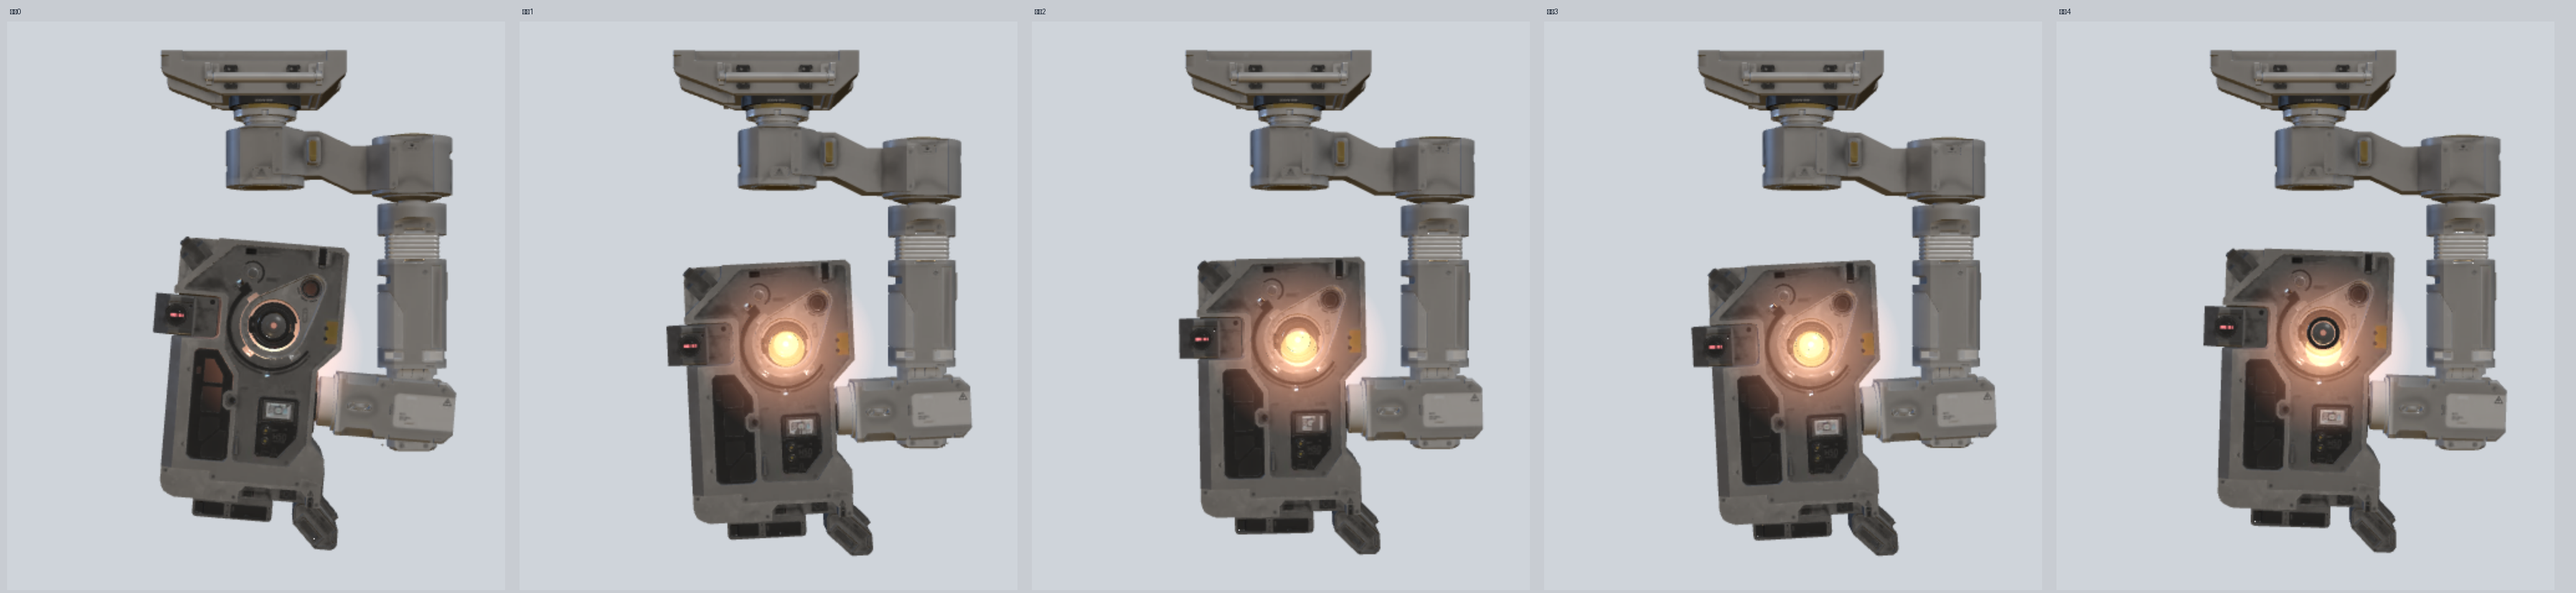
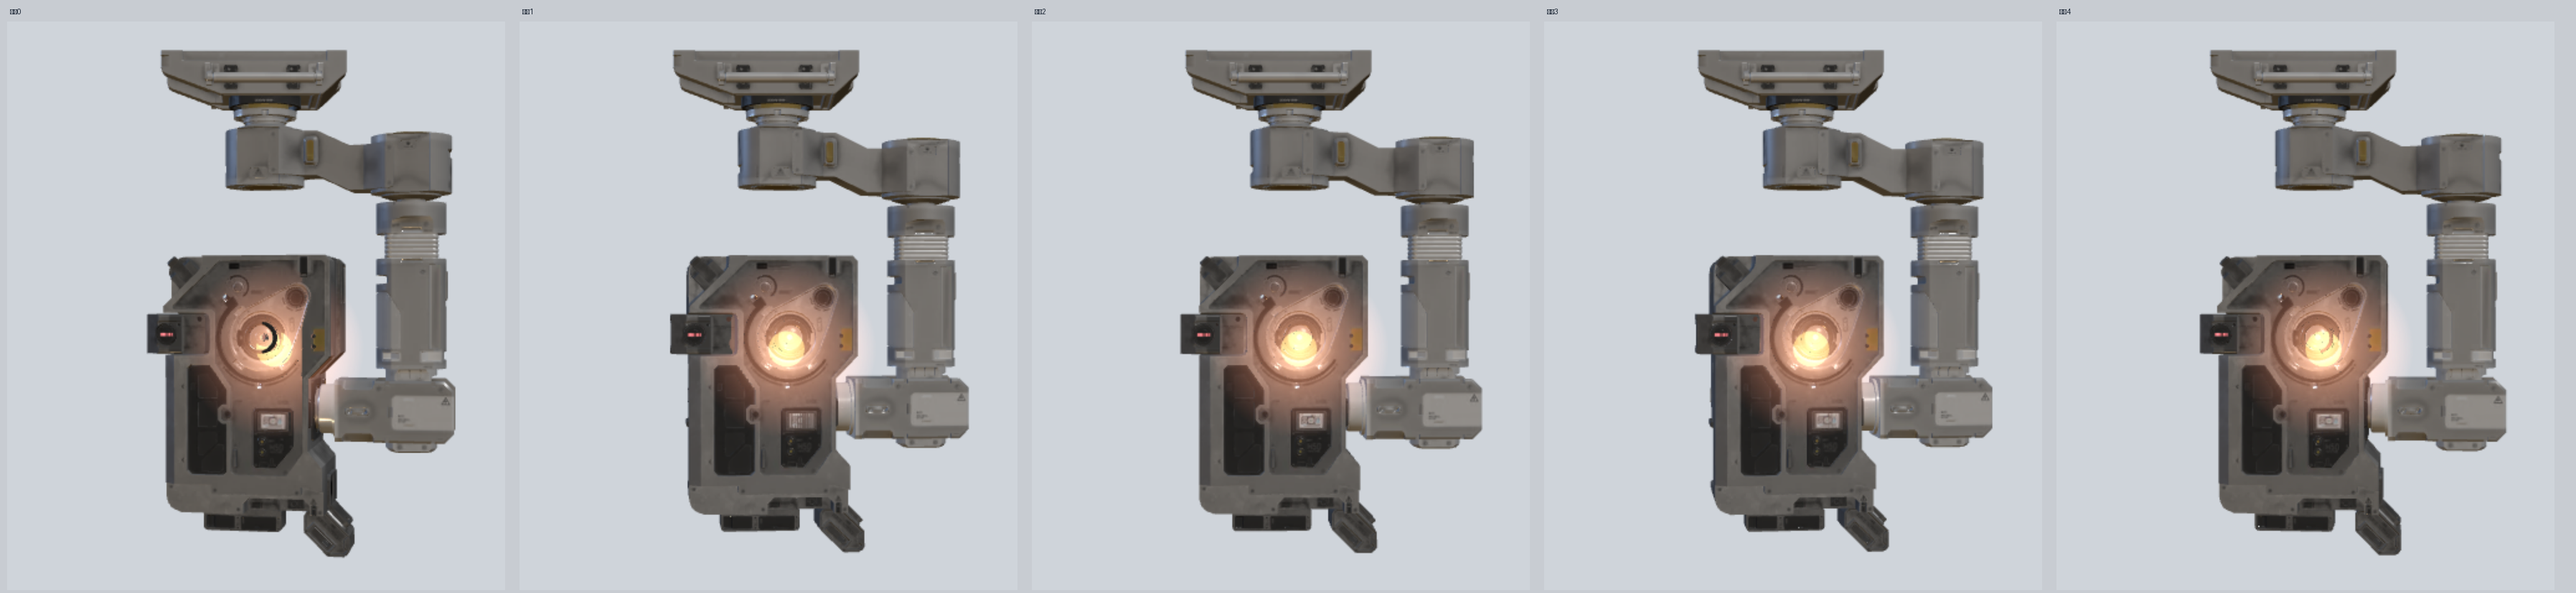
fix(moss): 三关节统一绕垂直轴，消除机身与手臂分离
根因：分段是水平切口，J3 却设成绕 Z 轴旋转 —— 切口与转轴不垂直，转动时两侧必然张开。
- 三个关节统一绕垂直 Y 轴（与水平切口垂直，旋转不变量）
- 关键帧角度：0/0/0 → +15/-8/+6 → -13/+8/-6 → +6/-3/+2.5 → 0
- 放大到最大检查腕部/肘部接缝，确认无张开（screenshots/16-joint-seam.png）
- 素材版本 v55

diff --git a/assets3d/boot.js b/assets3d/boot.js
@@ -284,11 +284,12 @@ export function createMoss3D(canvas, opts) {
     /* 三个关节：按关键帧走具体角度（单位：度）
          J1/J2 绕垂直 Y 轴偏航，J3 绕朝向镜头的 Z 轴摆。
          序列：静止 → 右偏 → 左偏 → 回中 → 静止，每段 1.6s，平滑缓动。 */
+      /* 三个关节都绕垂直 Y 轴（与分段处的水平切口垂直，转动不撕开） */
       const POSES = [
         { a1: 0, a2: 0, a3: 0 },
-        { a1: 9, a2: -5, a3: 6 },
-        { a1: -7, a2: 6, a3: -5 },
-        { a1: 4, a2: -2, a3: 3 },
+        { a1: 15, a2: -8, a3: 6 },
+        { a1: -13, a2: 8, a3: -6 },
+        { a1: 6, a2: -3, a3: 2.5 },
         { a1: 0, a2: 0, a3: 0 },
       ]
       const SEG = working ? 1.0 : 1.6
@@ -303,7 +304,7 @@ export function createMoss3D(canvas, opts) {
       const ang = (k) => ((from[k] + (to[k] - from[k]) * e) * amp) * Math.PI / 180
       if (armTop) armTop.rotation.y = ang('a1')
       if (armMid) armMid.rotation.y = ang('a2')
-      if (armWrist) armWrist.rotation.z = ang('a3')
+      if (armWrist) armWrist.rotation.y = ang('a3')
     renderer.render(scene, camera)
   }
 

diff --git a/client/client.js b/client/client.js
@@ -37,7 +37,7 @@ window.__ModuleLoader__.load({
     var ROOT_ID = 'dsh-pet-liang-root'
     var POS_KEY = 'dsh-pet-liang:pos'
     /* 素材改了名字没变，加一个版本号强制浏览器重新取（宿主给的是 immutable 缓存） */
-    var ASSET_V = '54'
+    var ASSET_V = '55'
     var STYLE_ID = 'dsh-pet-liang-style'
 
     /** 四档推理等级对应的称呼与氛围色。 */

diff --git a/README.md b/README.md
@@ -110,14 +110,15 @@ MOSS 形象不再用预渲染 PNG，而是**在插件里实时渲染你提供的
 - 贴图：4096² 原图压到 512 的 WebP，共 13 张（Base / Normal / Emissive / ORM 打包），合计约 400KB
 - 运行时：`three.module.min.js` + `FBXLoader` + `fflate` + `NURBS*`，全部本地托管，不联网
 - **关节**：三处关节的转轴不同，按参考图逐处核对（`screenshots/14-joint-axes.png`）——J1 颈部、J2 前臂顶都是**绕垂直 Y 轴偏航**，J3 腕部是**绕朝向镜头的 Z 轴**画面内摆。用嵌套枢轴 p1→p2→p3，手与机身挂在 p3 下。
-- **转动序列**（`screenshots/15-joint-poses.png`）：按关键帧走具体角度，每段 1.6s 平滑缓动，循环：
+- **转动原则**：分段切口所在的平面必须**垂直于转轴**，否则转动时切口两侧会张开。本模型的分段是水平切口（y = 79.9 / 60.6 / 25.0），所以三个关节都只能绕**垂直 Y 轴**转；之前把 J3 设成绕 Z 轴，就是它把机身和手臂撕开的原因。
+- **转动序列**（`screenshots/15-joint-poses.png`、`screenshots/16-joint-seam.png`）：按关键帧走具体角度，每段 1.6s 平滑缓动循环：
 
-  | 关键帧 | J1 偏航 | J2 偏航 | J3 摆动 |
+  | 关键帧 | J1 颈部 | J2 前臂顶 | J3 腕部 |
   | --- | --- | --- | --- |
   | 静止 | 0° | 0° | 0° |
-  | 右偏 | +9° | −5° | +6° |
-  | 左偏 | −7° | +6° | −5° |
-  | 回中 | +4° | −2° | +3° |
+  | 右偏 | +15° | −8° | +6° |
+  | 左偏 | −13° | +8° | −6° |
+  | 回中 | +6° | −3° | +2.5° |
   | 静止 | 0° | 0° | 0° |
 
   执行态：每段 1.0s、角度 ×1.25、速度 ×2.6
